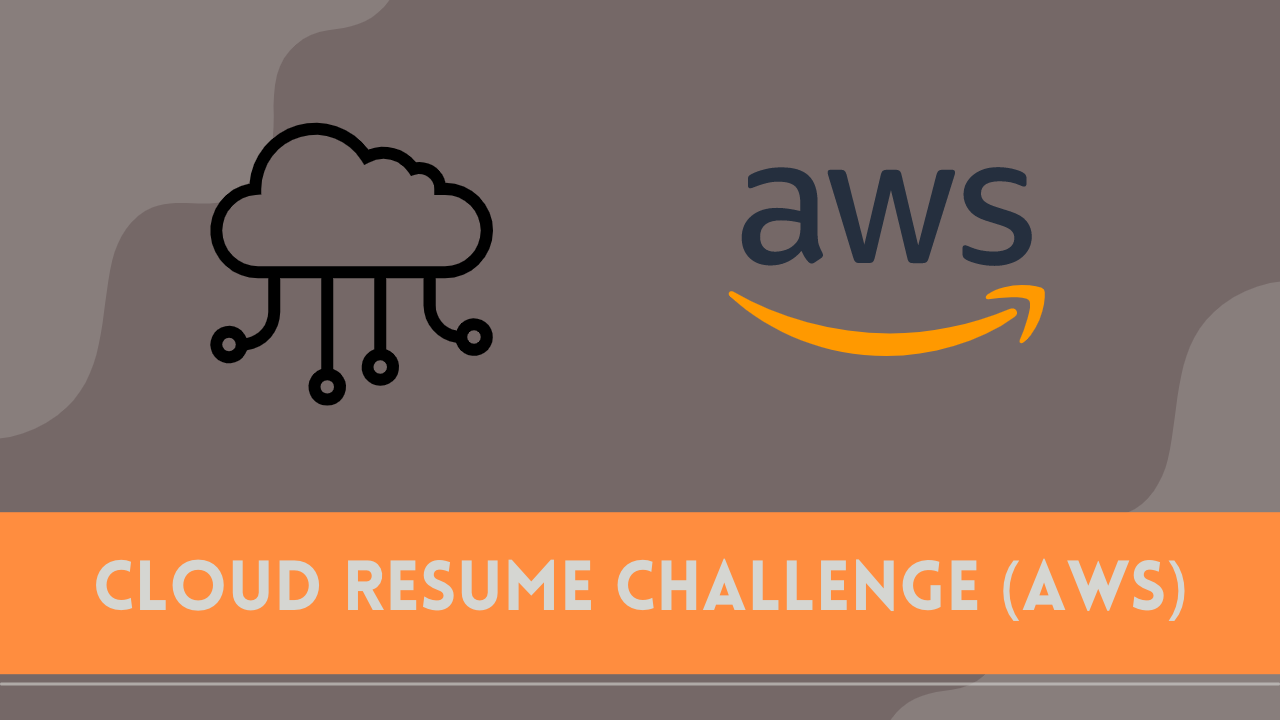
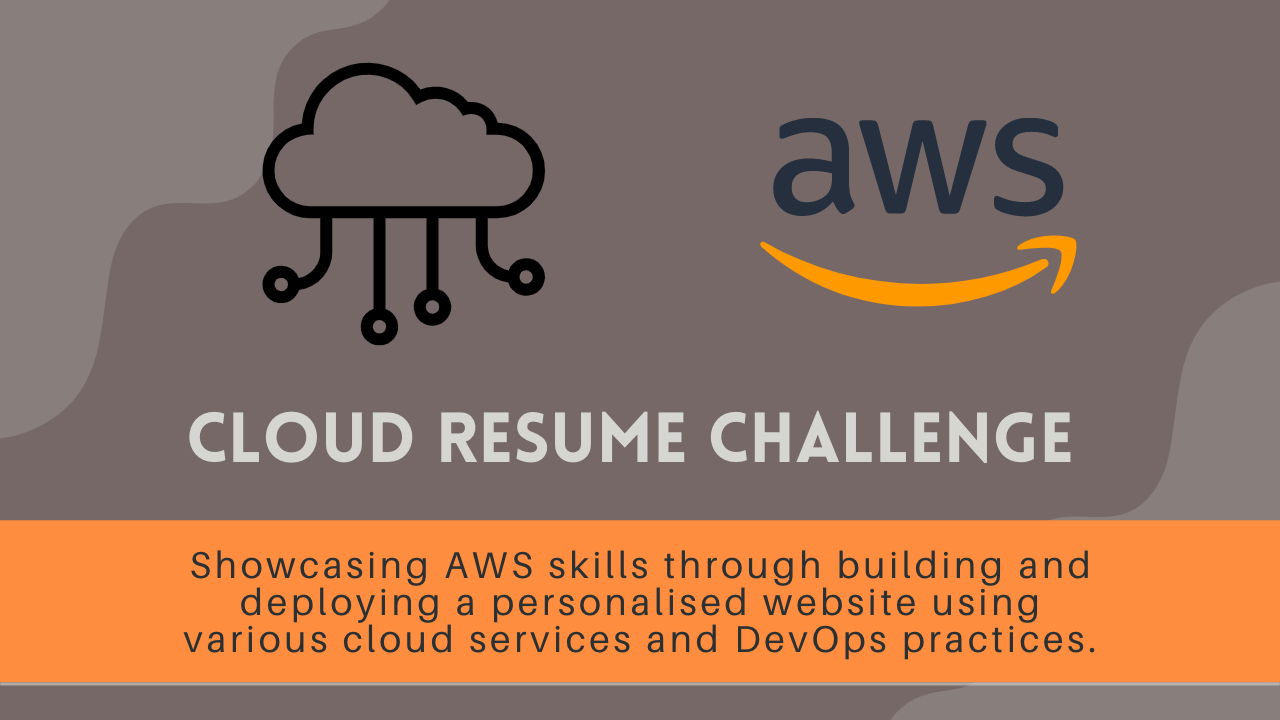
README Update

diff --git a/README.md b/README.md
@@ -27,11 +27,11 @@
 
 
 <!-- PROJECT LOGO -->
-<br />
+<!-- <br />
 <div align="center">
   <a href="https://github.com/estebanmorenoit/estebanmoreno-portfolio">
     <img src="images/logo.png" alt="Logo" width="80" height="80">
-  </a>
+  </a> -->
 
   <h3 align="center">Esteban Moreno Portfolio</h3>
 
@@ -61,14 +61,6 @@
         <li><a href="#built-with">Built With</a></li>
       </ul>
     </li>
-    <li>
-      <a href="#getting-started">Getting Started</a>
-      <ul>
-        <li><a href="#prerequisites">Prerequisites</a></li>
-        <li><a href="#installation">Installation</a></li>
-      </ul>
-    </li>
-    <li><a href="#usage">Usage</a></li>
     <li><a href="#roadmap">Roadmap</a></li>
     <li><a href="#contributing">Contributing</a></li>
     <li><a href="#license">License</a></li>
@@ -84,7 +76,7 @@
 
 [![Product Name Screen Shot][product-screenshot]](https://example.com)
 
-Here's a blank template to get started: To avoid retyping too much info. Do a search and replace with your text editor for the following: `github_username`, `repo_name`, `twitter_handle`, `linkedin_username`, `email_client`, `email`, `project_title`, `project_description`
+The Cloud Resume Challenge is a project designed to enhance AWS skills and showcase expertise in cloud computing, infrastructure management, and automation. By building and deploying a personalized website using various AWS services and DevOps practices, participants demonstrate their ability to create scalable and efficient solutions. The challenge aims to achieve practical experience in cloud technologies while showcasing skills to potential employers or collaborators.
 
 <p align="right">(<a href="#readme-top">back to top</a>)</p>
 
@@ -103,68 +95,12 @@ Here's a blank template to get started: To avoid retyping too much info. Do a se
 
 <p align="right">(<a href="#readme-top">back to top</a>)</p>
 
-
-
-<!-- GETTING STARTED -->
-## Getting Started
-
-This is an example of how you may give instructions on setting up your project locally.
-To get a local copy up and running follow these simple example steps.
-
-### Prerequisites
-
-This is an example of how to list things you need to use the software and how to install them.
-* npm
-  ```sh
-  npm install npm@latest -g
-
-
-### Prerequisites
-
-This is an example of how to list things you need to use the software and how to install them.
-* npm
-  ```sh
-  npm install npm@latest -g
-  ```
-
-### Installation
-
-1. Get a free API Key at [https://example.com](https://example.com)
-2. Clone the repo
-   ```sh
-   git clone https://github.com/github_username/repo_name.git
-   ```
-3. Install NPM packages
-   ```sh
-   npm install
-   ```
-4. Enter your API in `config.js`
-   ```js
-   const API_KEY = 'ENTER YOUR API';
-   ```
-
-<p align="right">(<a href="#readme-top">back to top</a>)</p>
-
-
-
-<!-- USAGE EXAMPLES -->
-## Usage
-
-Use this space to show useful examples of how a project can be used. Additional screenshots, code examples and demos work well in this space. You may also link to more resources.
-
-_For more examples, please refer to the [Documentation](https://example.com)_
-
-<p align="right">(<a href="#readme-top">back to top</a>)</p>
-
-
-
 <!-- ROADMAP -->
 ## Roadmap
 
-- [ ] Deploy backend autommatically by using Terraform and GitHub Actions
-- [ ] Replace AWS Access Keys with IAM role
-- [ ] Add comments to all the code
-    - [ ] Nested Feature
+- [x] Deploy backend automatically by using Terraform and GitHub Actions
+- [x] Add comments to all the code
+- [ ] Next steps
 
 See the [open issues](https://github.com/estebanmorenoit/estebanmoreno-portfolio/issues) for a full list of proposed features (and known issues).
 
@@ -185,7 +121,7 @@ Distributed under the MIT License. See `LICENSE.txt` for more information.
 <!-- CONTACT -->
 ## Contact
 
-Esteban Moreno - [@twitter_handle](https://twitter.com/twitter_handle) - morenoramirezesteban@gmail.com
+Esteban Moreno - morenoramirezesteban@gmail.com
 
 Project Link: [https://github.com/estebanmorenoit/estebanmoreno-portfolio](https://github.com/github_username/repo_name)
 
@@ -218,7 +154,7 @@ Project Link: [https://github.com/estebanmorenoit/estebanmoreno-portfolio](https
 [license-url]: https://github.com/github_username/repo_name/blob/master/LICENSE.txt
 [linkedin-shield]: https://img.shields.io/badge/-LinkedIn-black.svg?style=for-the-badge&logo=linkedin&colorB=555
 [linkedin-url]: https://linkedin.com/in/linkedin_username
-[product-screenshot]: images/screenshot.png
+[product-screenshot]: /images/screenshot.png
 [Next.js]: https://img.shields.io/badge/next.js-000000?style=for-the-badge&logo=nextdotjs&logoColor=white
 [Next-url]: https://nextjs.org/
 [React.js]: https://img.shields.io/badge/React-20232A?style=for-the-badge&logo=react&logoColor=61DAFB
